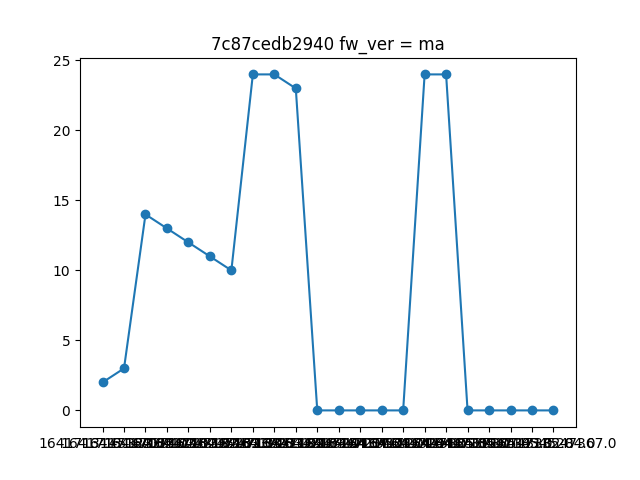
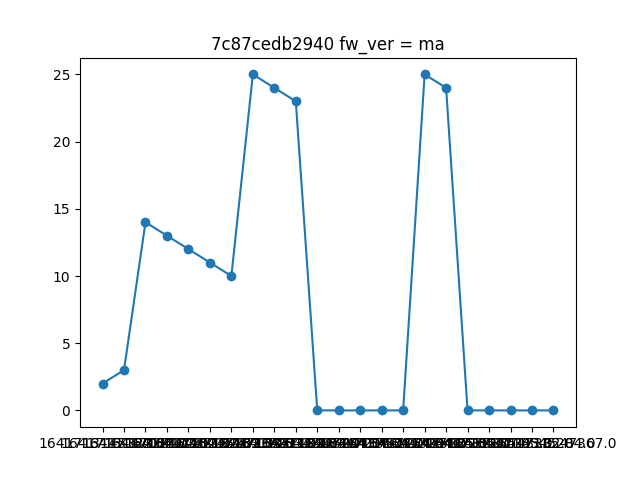
add

diff --git a/json_convert_to_csv/sender_info.py b/json_convert_to_csv/sender_info.py
@@ -45,12 +45,12 @@ def save_f(_topic, _data_list, _device):
         if num == 0:
             num += 1
         else:
-            if data[11] == '':
+            if data[17] == '':
                 x_list.append(data[2])
                 y_list.append(0.0)
             else:
                 x_list.append(data[2])
-                y_list.append(float(data[11]))
+                y_list.append(float(data[17]))
     
     x_list.pop(0)
     y_list.pop(0)
@@ -59,9 +59,9 @@ def save_f(_topic, _data_list, _device):
 
     pyplot.scatter(x_list, y_list)
     pyplot.plot(x_list, y_list)
-    pyplot.title('7c87cedb2940 fw_ver = ma')
+    pyplot.title('7c87cedb2940 fw_ver = ma, msg.base_state.curr-temperature')
     pyplot.show()
-    pyplot.savefig('data.png')
+    pyplot.savefig('data[17].png')
 
     index = len(device_concat) 
     df_device = pd.DataFrame(device_concat)
